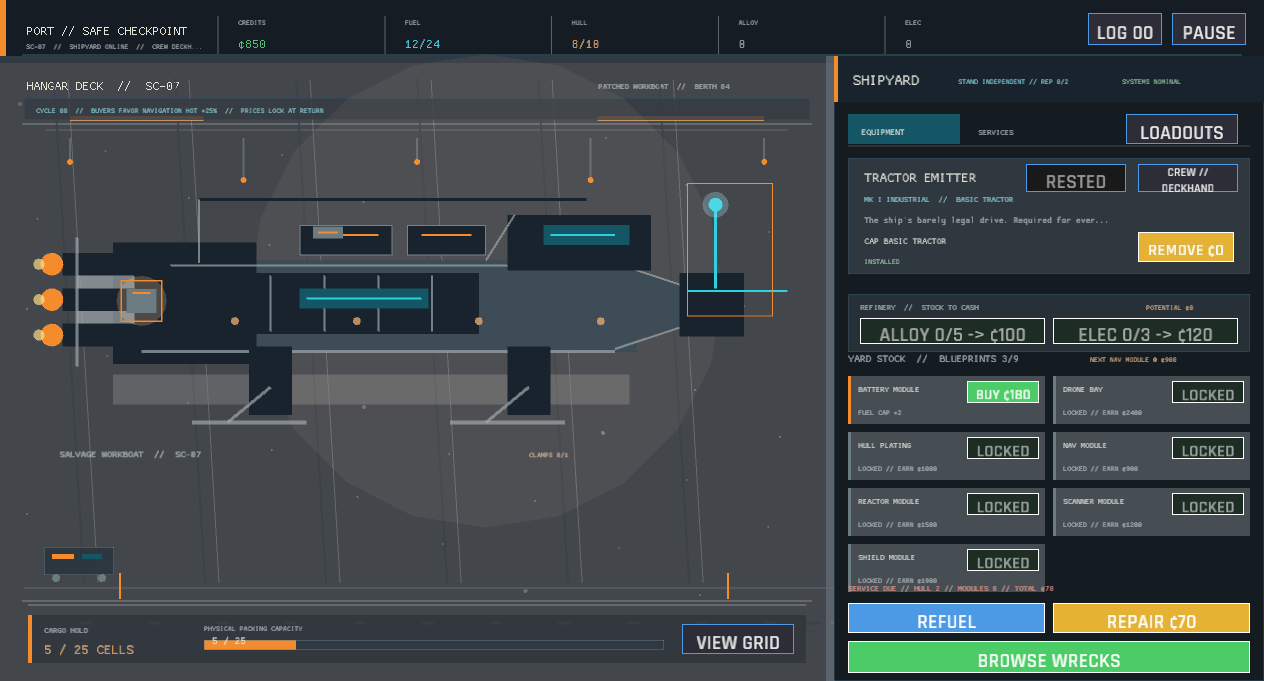
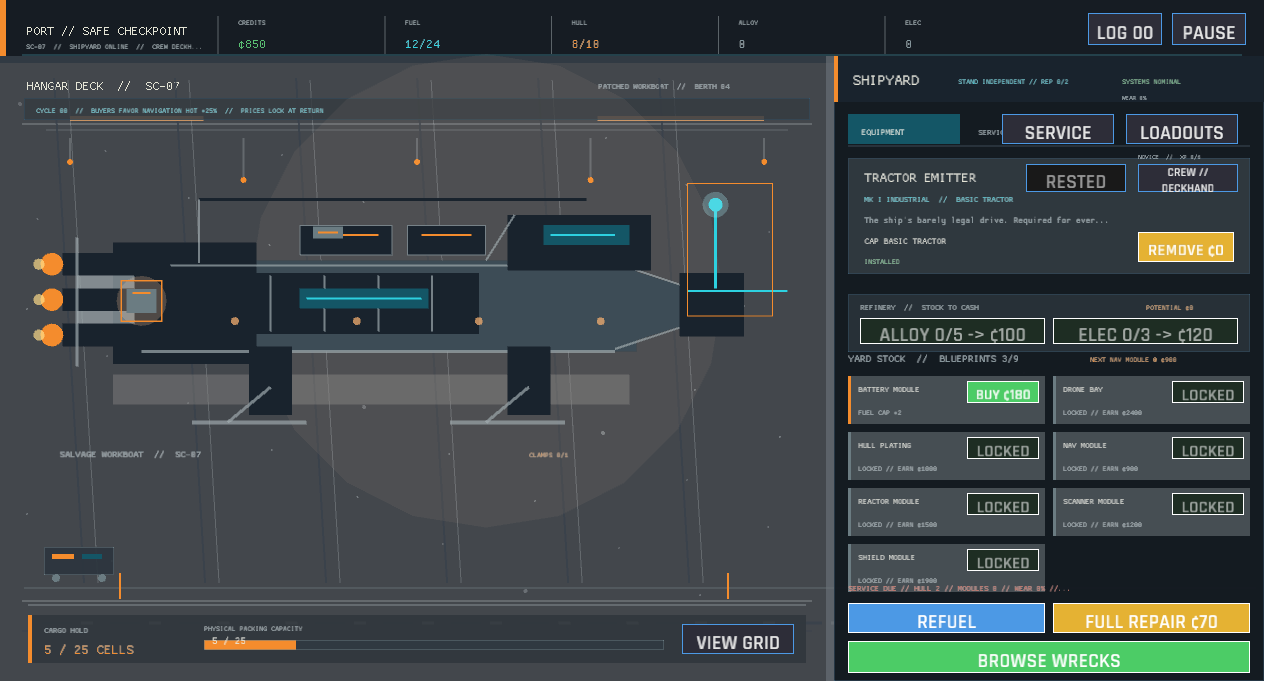
The yard labels the crew's hard-won rank (port expertise readout)
The safe-port crew control now exposes the active role's expertise tier and XP progress before a new route is planned. The Port verification capture was refreshed to document the added readout.

Changed region(s): [[0.7714, 0.1542, 0.8948, 0.2159], [0.8639, 0.8943, 0.9565, 0.9251]]

diff --git a/src/ui/crew_panel.rs b/src/ui/crew_panel.rs
@@ -1,7 +1,8 @@
 //! Compact crew assignment control used during mission briefing.
 
 use super::*;
-use crate::state::CrewRole;
+use crate::state::crew::MAX_CREW_EXPERIENCE;
+use crate::state::{CrewRole, GameSession};
 use crate::ui::visual_theme;
 
 pub fn draw_briefing_control(ctx: &UiContext<'_>, actions: &mut Vec<UiAction>) {
@@ -18,16 +19,20 @@ pub fn draw_briefing_control(ctx: &UiContext<'_>, actions: &mut Vec<UiAction>) {
 
 pub fn draw_port_control(ctx: &UiContext<'_>, actions: &mut Vec<UiAction>) {
     let width = ctx.viewport_width.max(1.0);
-    draw_assignment_button(
-        ctx,
-        Rect::new(
-            width - 126.0,
-            crate::ui::port_panel::HEADER_HEIGHT + 108.0,
-            100.0,
-            28.0,
-        ),
-        actions,
+    let assignment_rect = Rect::new(
+        width - 126.0,
+        crate::ui::port_panel::HEADER_HEIGHT + 108.0,
+        100.0,
+        28.0,
     );
+    draw_text(
+        &crew_expertise_status_label(ctx.session),
+        assignment_rect.x,
+        assignment_rect.y - 5.0,
+        8.0,
+        crew_color(ctx.session.crew_role()),
+    );
+    draw_assignment_button(ctx, assignment_rect, actions);
     draw_rest_control(
         ctx,
         Rect::new(
@@ -72,6 +77,15 @@ fn draw_rest_control(ctx: &UiContext<'_>, rect: Rect, actions: &mut Vec<UiAction
 
 fn crew_button_label(role: crate::state::CrewRole) -> String {
     format!("CREW  //  {}", role.short_label())
+}
+
+fn crew_expertise_status_label(session: &GameSession) -> String {
+    format!(
+        "{}  //  XP {}/{}",
+        session.crew_expertise_label(),
+        session.crew_experience(),
+        MAX_CREW_EXPERIENCE
+    )
 }
 
 fn rest_button_label(readiness: u8) -> String {

diff --git a/src/ui/crew_panel/tests.rs b/src/ui/crew_panel/tests.rs
@@ -9,3 +9,18 @@ fn crew_buttons_name_the_current_assignment() {
     assert_eq!(rest_button_label(100), "RESTED");
     assert_eq!(rest_button_label(79), "REST  //  79%");
 }
+
+#[test]
+fn port_crew_control_reports_expertise_progress() {
+    let data = crate::data::GameData::load().unwrap();
+    let mut session = crate::state::GameSession::new(&data);
+
+    assert_eq!(crew_expertise_status_label(&session), "NOVICE  //  XP 0/6");
+    session.crew_role = crate::state::CrewRole::Navigator;
+    session.career.crew_experience[crate::state::CrewRole::Navigator.index()] = 4;
+
+    assert_eq!(
+        crew_expertise_status_label(&session),
+        "QUALIFIED  //  XP 4/6"
+    );
+}
